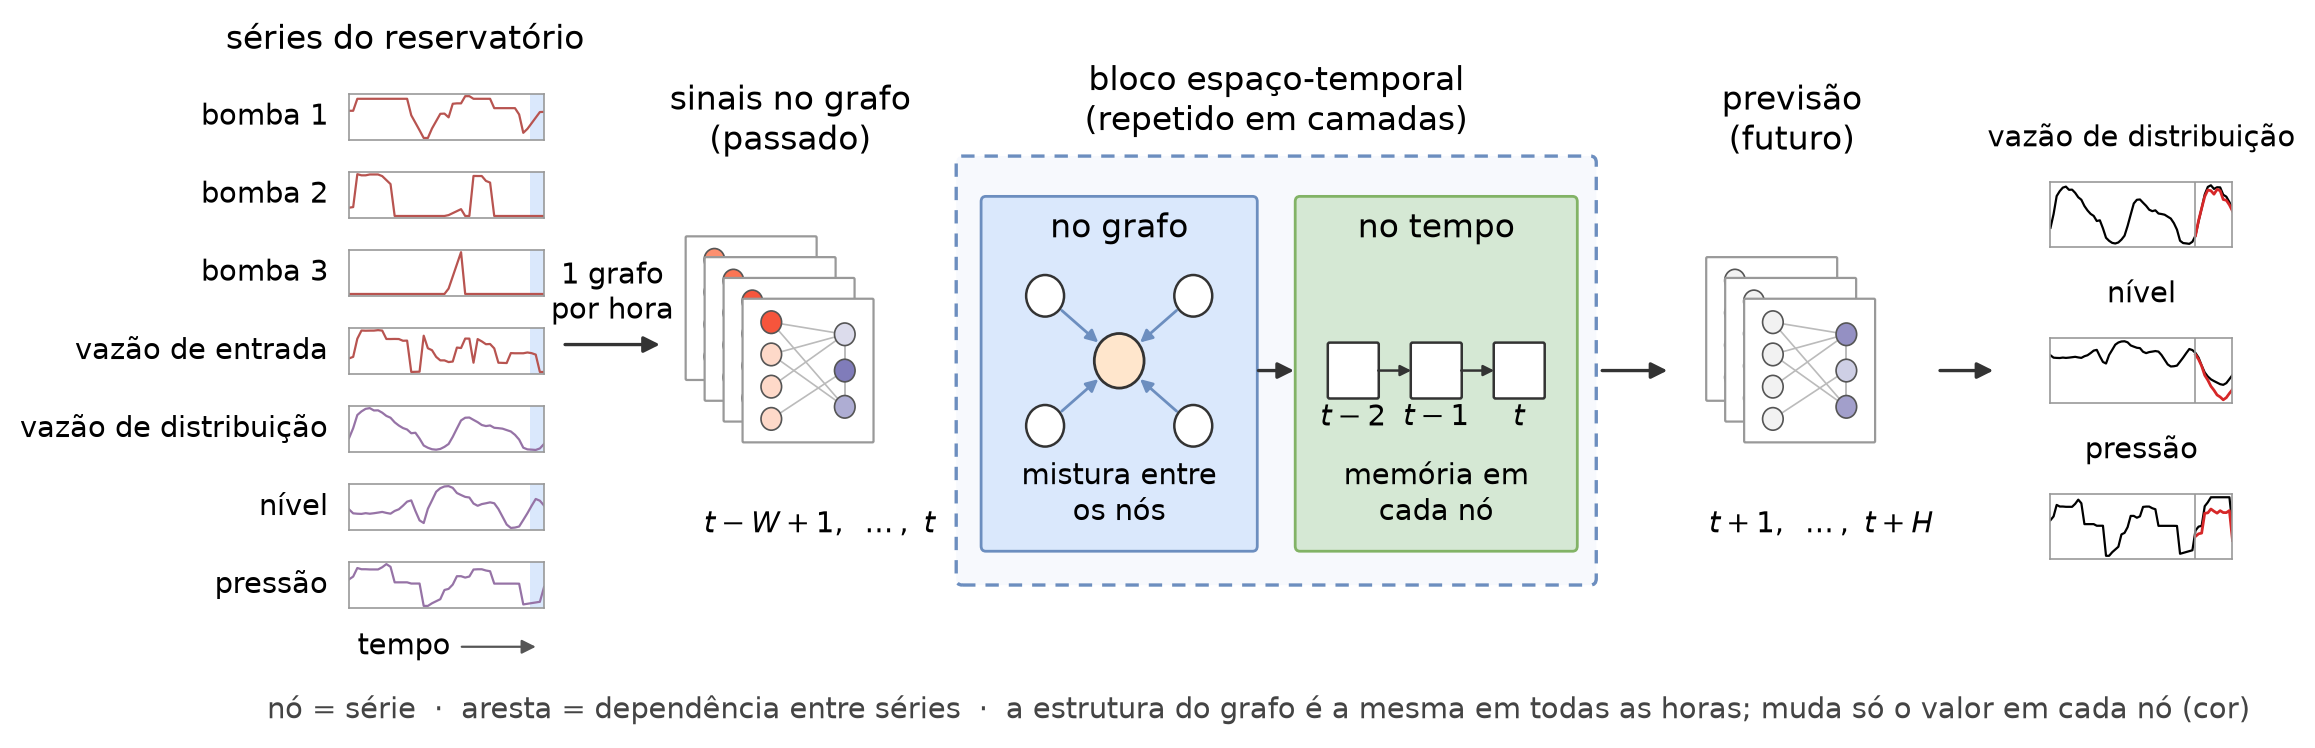
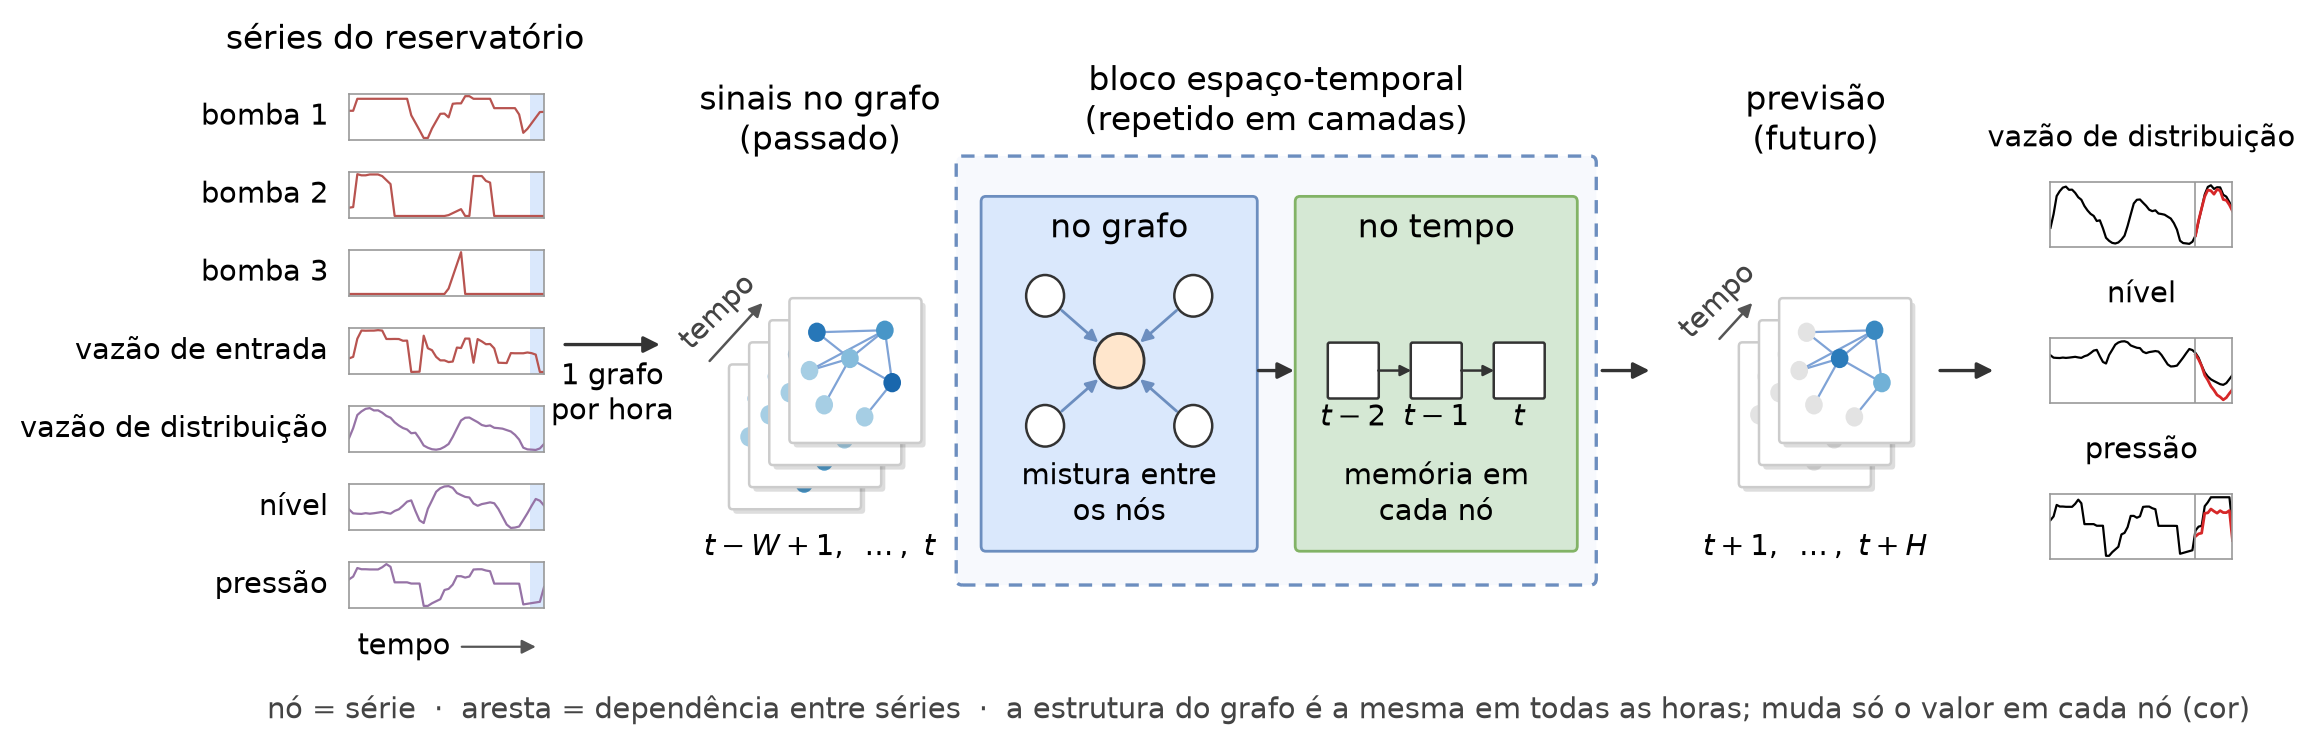
docs(artigo): grafos da GNN espaço-temporal no estilo da DCRNN (rascunho)

diff --git a/notebooks/training/scripts/figure_gnn_concept.py b/notebooks/training/scripts/figure_gnn_concept.py
@@ -303,16 +303,16 @@ def reservoir() -> None:  # noqa: PLR0914 - one figure, linear
     plt.close(fig)
 
 
-# Grafo do reservatório em miniatura: entradas à esquerda, saídas à direita;
+# Grafo do reservatório em miniatura, em layout orgânico (estilo da DCRNN);
 # arestas com dependência forte no treino (Granger, `gnn_reservatorio`).
 MINI_POS = {
-    "freq_b1": (-1.0, 1.2),
-    "freq_b2": (-1.0, 0.4),
-    "freq_b3": (-1.0, -0.4),
-    "vazao_entrada": (-1.0, -1.2),
-    "vazao_distribuicao": (1.0, 0.9),
-    "nivel_res": (1.0, 0.0),
-    "pressao": (1.0, -0.9),
+    "freq_b1": (-1.05, 0.95),
+    "freq_b2": (-1.25, 0.0),
+    "freq_b3": (-0.85, -0.85),
+    "vazao_entrada": (0.25, -1.15),
+    "vazao_distribuicao": (-0.15, 0.3),
+    "nivel_res": (1.0, -0.3),
+    "pressao": (0.8, 1.0),
 }
 MINI_EDGES = [
     ("freq_b1", "vazao_distribuicao"),
@@ -325,6 +325,7 @@ MINI_EDGES = [
     ("vazao_distribuicao", "pressao"),
     ("nivel_res", "pressao"),
 ]
+NODE_C, EDGE_C, CARD_EC = "#5b8fd1", "#7fa3d6", "#cccccc"
 
 
 def mini_graph(  # noqa: PLR0913
@@ -336,19 +337,21 @@ def mini_graph(  # noqa: PLR0913
     zorder: int,
     only_outputs: bool = False,
 ) -> None:
-    """Reservoir graph on a card; node colour = value at that hour."""
-    ax.add_patch(
-        FancyBboxPatch(
-            (cx - 1.75 * scale, cy - 1.75 * scale),
-            3.5 * scale,
-            3.5 * scale,
-            boxstyle="round,pad=0.02",
-            fc="white",
-            ec="#999",
-            lw=0.8,
-            zorder=zorder,
+    """Reservoir graph on a card; node shade = value at that hour."""
+    half = 1.7 * scale
+    for dx, fc, ec in ((0.07, "#00000022", "none"), (0, "white", CARD_EC)):
+        ax.add_patch(
+            FancyBboxPatch(
+                (cx - half + dx, cy - half - dx),
+                2 * half,
+                2 * half,
+                boxstyle="round,pad=0.06",
+                fc=fc,
+                ec=ec,
+                lw=0.9,
+                zorder=zorder,
+            )
         )
-    )
     xy = {
         k: (cx + scale * x, cy + scale * y) for k, (x, y) in MINI_POS.items()
     }
@@ -356,24 +359,21 @@ def mini_graph(  # noqa: PLR0913
         ax.plot(
             [xy[a][0], xy[b][0]],
             [xy[a][1], xy[b][1]],
-            color="#bbb",
-            lw=0.6,
+            color=EDGE_C,
+            lw=0.8,
             zorder=zorder + 1,
         )
     for k, (x, y) in xy.items():
-        out = k in OUTPUT_COLS
-        if values is None or (only_outputs and not out):
-            fc = "#f2f2f2"
+        if values is None or (only_outputs and k not in OUTPUT_COLS):
+            fc = "#e3e3e3"
         else:
-            cmap = plt.cm.Purples if out else plt.cm.Reds
-            fc = cmap(0.15 + 0.65 * values[k])
+            fc = plt.cm.Blues(0.35 + 0.6 * values[k])
         ax.add_patch(
             plt.Circle(
                 (x, y),
-                0.28 * scale,
+                0.24 * scale,
                 fc=fc,
-                ec="#555",
-                lw=0.6,
+                ec="none",
                 zorder=zorder + 2,
             )
         )
@@ -386,14 +386,37 @@ def stack(  # noqa: PLR0913
     rows: list[dict[str, float] | None],
     scale: float = 0.62,
     only_outputs: bool = False,
+    fs: float = 10.5,
 ) -> None:
-    """Cards of mini graphs, one per hour, the last one in front."""
-    step = 0.32
+    """Cards of mini graphs, older hours behind (lower left), as in DCRNN."""
+    step, half = 0.34, 1.7 * 0.62
+    n = len(rows)
     for d, values in enumerate(rows):
-        off = (len(rows) - 1 - d) * step
+        off = (n - 1 - d) * step
         mini_graph(
-            ax, cx - off, cy + off, scale, values, 10 + 4 * d, only_outputs
+            ax, cx - off, cy - off, scale, values, 10 + 4 * d, only_outputs
         )
+    # seta do tempo ao longo da diagonal, junto aos cantos superiores
+    back = (n - 1) * step
+    p0 = (cx - back - half - 0.45, cy - back + half + 0.05)
+    p1 = (cx - half - 0.45, cy + half + 0.05)
+    ax.annotate(
+        "",
+        xy=p1,
+        xytext=p0,
+        arrowprops=dict(arrowstyle="-|>", color="#555", lw=0.9),
+        zorder=30,
+    )
+    ax.text(
+        (p0[0] + p1[0]) / 2 - 0.3,
+        (p0[1] + p1[1]) / 2 + 0.3,
+        "tempo",
+        rotation=45,
+        ha="center",
+        va="center",
+        fontsize=fs,
+        color="#444",
+    )
 
 
 def block(ax, x0, y0, w, h, fc, ec, title) -> None:  # noqa: ANN001, PLR0913
@@ -465,19 +488,19 @@ def stgnn() -> None:  # noqa: PLR0914, PLR0915 - one figure, linear
         arrowprops=dict(arrowstyle="-|>", color="#555", lw=0.8),
     )
     arrow(ax, (5.3, 5), (6.9, 5), shrinkA=0, shrinkB=0)
-    ax.text(6.1, 5.4, "1 grafo\npor hora", ha="center", fontsize=fs)
+    ax.text(6.1, 3.85, "1 grafo\npor hora", ha="center", fontsize=fs)
 
     # 2. Um grafo por hora: mesma estrutura, sinais diferentes nos nós.
     stack(
         ax,
-        9.4,
+        10.2,
         4.6,
         [at(r) for r in range(past - n_past + 1, past + 1)],
     )
     ax.text(
-        9.1, 8.0, "sinais no grafo\n(passado)", ha="center", fontsize=fs_title
+        9.6, 8.0, "sinais no grafo\n(passado)", ha="center", fontsize=fs_title
     )
-    ax.text(9.6, 2.1, r"$t-W+1,\ \dots,\ t$", ha="center", fontsize=fs)
+    ax.text(9.6, 1.75, r"$t-W+1,\ \dots,\ t$", ha="center", fontsize=fs)
 
     # 3. Bloco espaço-temporal: operação no grafo, depois no tempo.
     block(ax, 12.0, 1.4, 10.6, 6.4, "#f7f9fd", "#6c8ebf", "")
@@ -586,12 +609,12 @@ def stgnn() -> None:  # noqa: PLR0914, PLR0915 - one figure, linear
         fontsize=fs,
         zorder=3,
     )
-    arrow(ax, (22.8, 4.6), (23.9, 4.6), shrinkA=0, shrinkB=0)
+    arrow(ax, (22.8, 4.6), (23.6, 4.6), shrinkA=0, shrinkB=0)
 
     # 4. Saída: os grafos do futuro e as séries previstas.
-    stack(ax, 26.3, 4.6, [at(r) for r in future], only_outputs=True)
-    ax.text(26.0, 8.0, "previsão\n(futuro)", ha="center", fontsize=fs_title)
-    ax.text(26.5, 2.1, r"$t+1,\ \dots,\ t+H$", ha="center", fontsize=fs)
+    stack(ax, 26.9, 4.6, [at(r) for r in future], only_outputs=True)
+    ax.text(26.4, 8.0, "previsão\n(futuro)", ha="center", fontsize=fs_title)
+    ax.text(26.4, 1.75, r"$t+1,\ \dots,\ t+H$", ha="center", fontsize=fs)
     arrow(ax, (28.5, 4.6), (29.4, 4.6), shrinkA=0, shrinkB=0)
     rng = np.random.default_rng(7)
     for c, y in zip(OUTPUT_COLS, (7.0, 4.6, 2.2), strict=True):

diff --git a/docs/14_guia-de-edicao-do-artigo.md b/docs/14_guia-de-edicao-do-artigo.md
@@ -151,7 +151,7 @@ nunca do modelo linear antigo do doc 8.
 | Figura no artigo | Arquivo | Gerada por |
 |---|---|---|
 | GNN: conceito (a)(b)(c) | `gnn_conceito.pdf` | `notebooks/training/scripts/figure_gnn_concept.py` |
-| GNN espaço-temporal no reservatório (substitui o print da DCRNN) | `stgnn_reservatorio.pdf` | `figure_gnn_concept.py` (`stgnn()`), "Fonte: Elaborado pelo autor, com base em Li et al. (2018)" |
+| DCRNN (terceiros) | `dcrnn_li2018.png` | print da Figura 2 de Li et al. (2018), com "Fonte: (LI et al., 2018)". Rascunho para substituí-la, ainda fora do artigo: `stgnn_reservatorio` de `figure_gnn_concept.py` (`stgnn()`) |
 | Fluxograma da metodologia | TikZ no próprio `main.tex` | — |
 | Coerência (a) + polos ARX (b) | `eda_15_coherence.png`, `eda_18_arx_poles.png` | `notebooks/eda/03_eda_series_temporais.ipynb` |
 | STL (a) + variância por banda (b) | `eda_06_stl_decomposition.png`, `decomp_variancia_por_banda.png` | notebook de EDA 03 e `run_decomposition.py` |
